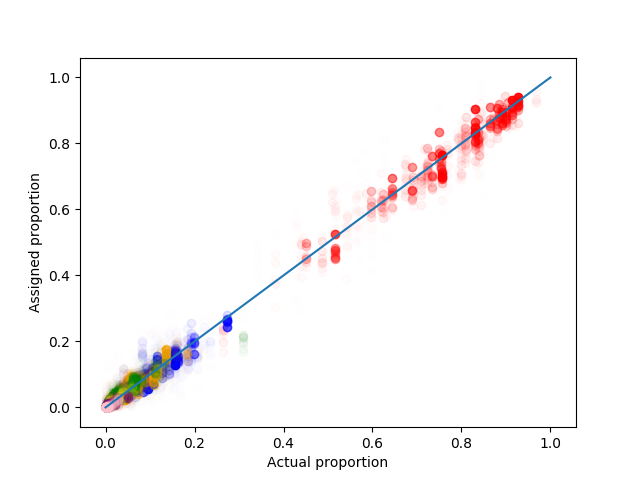
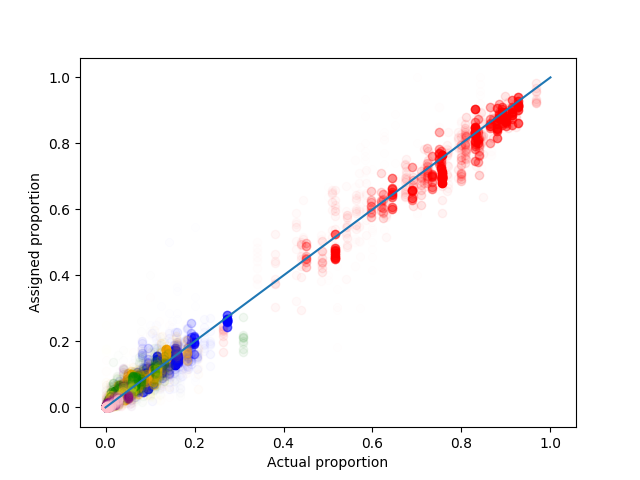
Forced fit data fits regional sic size dists because of standard sic dists

diff --git a/Data Analysis/Enterprise Prediction/Distributions of enterprise size by sic and la/regional_analysis.py b/Data Analysis/Enterprise Prediction/Distributions of enterprise size by sic and la/regional_analysis.py
@@ -4,67 +4,16 @@ import numpy as np
 import matplotlib.pyplot as plt
 
 def main():
+    colours = {'0-4': 'red', '5-9': 'blue', '10-19': 'orange', '20-49': 'green', '50-99': 'yellow', '100-249': 'purple', '250+': 'pink'}
+
     company_data = [analysis.get_companies(i) for i in range(1, 3)]
-    regions = get_regions()
-
-    size_dists = get_regional_size_distributions()
-
-    size_bands = ['0-4', '5-9', '10-19', '20-49', '50-99', '100-249', '250+']
-    upper_limits = [5, 10, 20, 50, 100, 250, np.inf]
-
     for i, companies in enumerate(company_data):
+        results = regional_analysis(companies)
         plt.figure(i)
-        sizes = {}
-        for company in companies:
-            region = regions[company['la']]
-            sic = int(company['sic'])
-            size = int(company['size'])
-            for j, s in enumerate(upper_limits):
-                if size < s:
-                    size_band = size_bands[j]
-                    break
-            else:
-                size_band = size_bands[-1]
-
-            if sic in sizes:
-                if region in sizes[sic]:
-                    if size_band in sizes[sic][region]:
-                        sizes[sic][region][size_band] += 1
-                    else:
-                        sizes[sic][region][size_band]  = 1
-                else:
-                    sizes[sic][region] = {size_band: 1}
-            else:
-                sizes[sic] = {region: {size_band: 1}}
-
-        #print(sizes)
-
-        results  = {s: {'x': [], 'y': [], 'a':[]} for s in size_bands}
-        colours = {'0-4': 'red', '5-9': 'blue', '10-19': 'orange', '20-49': 'green', '50-99': 'yellow', '100-249': 'purple', '250+': 'pink'}
-
-        for sic, regions_sizes in sizes.items():
-            if sic not in size_dists:
-                print(str(sic) + 'sic missing')
-                continue
-            for region, size_dist in regions_sizes.items():
-                if region not in size_dists[sic]:
-                    #print(region + ' region missing')
-                    continue
-                total = 0
-                for n in size_dist.values():
-                    total += n
-                for size, n in size_dist.items():
-                    if size_dists[sic][region]['Total'] == 0:
-                        results[size]['x'].append(0)
-                    else:
-                        results[size]['x'].append(size_dists[sic][region][size] / size_dists[sic][region]['Total'])
-
-                    results[size]['y'].append(n / total)
-                    results[size]['a'].append(total)
         for size, data in results.items():
             data['a'] = np.array(data['a']) / np.max(data['a'])
             for j in range(len(data['x'])):
-                plt.scatter(data['x'][j], data['y'][j], label=sic, alpha=data['a'][j], color=colours[size])
+                plt.scatter(data['x'][j], data['y'][j], label=size, alpha=data['a'][j], color=colours[size])
         plt.plot([0, 1], [0, 1], label='y=x')
         plt.xlabel('Actual proportion')
         plt.ylabel('Assigned proportion')
@@ -73,6 +22,64 @@ def main():
 
     plt.show()
 
+def regional_analysis(companies):
+    regions = get_regions()
+
+    size_dists = get_regional_size_distributions()
+
+    size_bands = ['0-4', '5-9', '10-19', '20-49', '50-99', '100-249', '250+']
+    upper_limits = [5, 10, 20, 50, 100, 250, np.inf]
+
+    sizes = {}
+
+    for company in companies:
+        region = regions[company['la']]
+        sic = int(company['sic'])
+        size = int(company['size'])
+        for j, s in enumerate(upper_limits):
+            if size < s:
+                size_band = size_bands[j]
+                break
+        else:
+            size_band = size_bands[-1]
+
+        if sic in sizes:
+            if region in sizes[sic]:
+                if size_band in sizes[sic][region]:
+                    sizes[sic][region][size_band] += 1
+                else:
+                    sizes[sic][region][size_band]  = 1
+            else:
+                sizes[sic][region] = {size_band: 1}
+        else:
+            sizes[sic] = {region: {size_band: 1}}
+
+    #print(sizes)
+
+    results  = {s: {'x': [], 'y': [], 'a':[]} for s in size_bands}
+
+
+    for sic, regions_sizes in sizes.items():
+        if sic not in size_dists:
+            print(str(sic) + 'sic missing')
+            continue
+        for region, size_dist in regions_sizes.items():
+            if region not in size_dists[sic]:
+                #print(region + ' region missing')
+                continue
+            total = 0
+            for n in size_dist.values():
+                total += n
+            for size, n in size_dist.items():
+                if size_dists[sic][region]['Total'] == 0:
+                    results[size]['x'].append(0)
+                else:
+                    results[size]['x'].append(size_dists[sic][region][size] / size_dists[sic][region]['Total'])
+
+                results[size]['y'].append(n / total)
+                results[size]['a'].append(size_dists[sic][region]['Total'])
+
+    return results
 
 
 def get_regions():

diff --git a/Data Analysis/Enterprise Prediction/Distributions of enterprise size by sic and la/regional_analysis_using_basic_dists.py b/Data Analysis/Enterprise Prediction/Distributions of enterprise size by sic and la/regional_analysis_using_basic_dists.py
@@ -1,0 +1,34 @@
+import analysis, regional_analysis
+import csv
+import size_assignation
+
+from scipy.stats import lognorm
+import numpy as np
+import matplotlib.pyplot as plt
+
+
+def main():
+    colours = {'0-4': 'red', '5-9': 'blue', '10-19': 'orange', '20-49': 'green', '50-99': 'yellow', '100-249': 'purple', '250+': 'pink'}
+
+    size_distributions_by_sic = size_assignation.get_size_distributions_by_sic()
+    size_distributions_by_la  = size_assignation.get_size_distributions_by_la()
+
+    companies = analysis.get_companies(1)
+    for company in companies:
+        la = company['la']
+        sic = company['sic']
+        #company['size'] = lognorm.rvs(size_distributions_by_la[la]['sd'], scale=np.exp(size_distributions_by_la[la]['mean']))
+        company['size'] = lognorm.rvs(size_distributions_by_sic[sic]['sd'], scale=np.exp(size_distributions_by_sic[sic]['mean']))
+
+
+    results = regional_analysis.regional_analysis(companies)
+    for data in results.values():
+        data['a'] = np.array(data['a']) / np.max(data['a'])
+    for size, points in results.items():
+        for i in range(len(points['x'])):
+            plt.scatter(points['x'][i], points['y'][i], color=colours[size])
+    plt.savefig('results_when_picking_sizes_from_sic_size_no_alpha.png')
+    plt.show()
+
+if __name__ == '__main__':
+    main()
